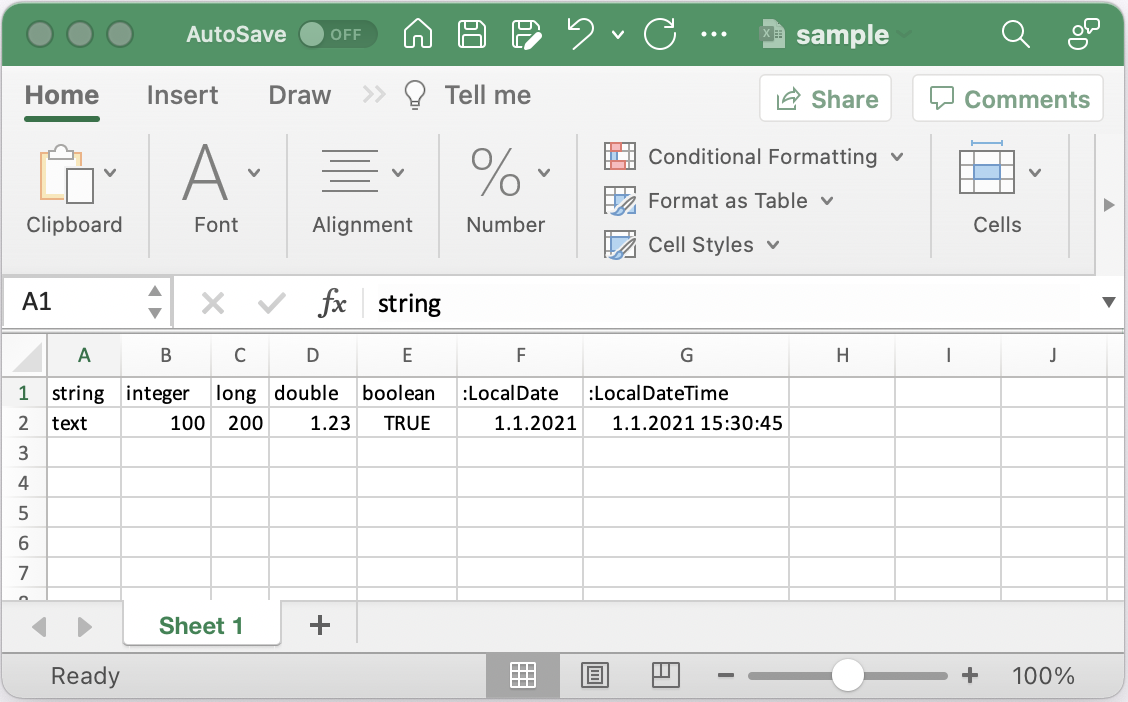
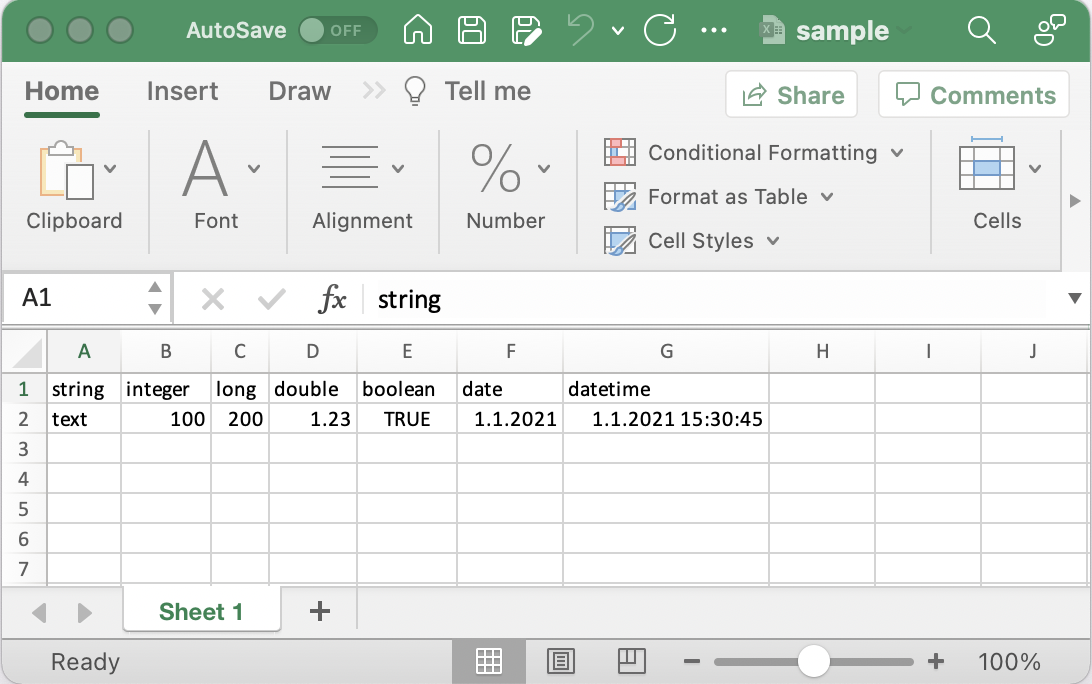
improved excel doc

diff --git a/doc/readme/excel.md b/doc/readme/excel.md
@@ -218,8 +218,8 @@ The Excel writer supports the Venice data types:
  - long
  - double
  - boolean
- - :java.time.LocalDate
- - :java.time.LocalDateTime
+ - date (:java.time.LocalDate)
+ - datetime (:java.time.LocalDateTime)
  
 ```clojure
 (do
@@ -227,9 +227,13 @@ The Excel writer supports the Venice data types:
 
   (load-module :excel)
 
-  (let [data  [ {:t-str "text" :t-int 100I :t-long 200 :t-double 1.23  :t-bool true 
-                 :t-local-date (time/local-date 2021 1 1)
-                 :t-local-ts (time/local-date-time 2021 1 1 15 30 45) } ]
+  (let [data  [ {:t-str "text" 
+                 :t-int 100I 
+                 :t-long 200 
+                 :t-double 1.23  
+                 :t-bool true 
+                 :t-date (time/local-date 2021 1 1)
+                 :t-datetime (time/local-date-time 2021 1 1 15 30 45) } ]
         wbook (excel/writer :xlsx)
         sheet (excel/add-sheet wbook "Sheet 1")]
     (excel/add-column sheet "string" { :field :t-str })
@@ -237,8 +241,8 @@ The Excel writer supports the Venice data types:
     (excel/add-column sheet "long" { :field :t-long })
     (excel/add-column sheet "double" { :field :t-double })
     (excel/add-column sheet "boolean" { :field :t-bool })
-    (excel/add-column sheet ":LocalDate" { :field :t-local-date })
-    (excel/add-column sheet ":LocalDateTime" { :field :t-local-ts })
+    (excel/add-column sheet "date" { :field :t-date })
+    (excel/add-column sheet "datetime" { :field :t-datetime })
     (excel/write-items sheet data)
     (excel/auto-size-columns sheet)
     (excel/write->file wbook "sample.xlsx")))
@@ -452,7 +456,9 @@ Set the height of individual rows:
     (excel/add-column sheet "Last Name" { :field :last })
     (excel/add-column sheet "Age" { :field :age })
     (excel/write-items sheet data)
-    (excel/row-height sheet 2 50)
+    
+    (excel/row-height sheet 2 50) ;; set the height of row 2 to 50
+    
     (excel/auto-size-columns sheet)
     (excel/write->file wbook "sample.xlsx")))
 ```
@@ -482,9 +488,12 @@ Set the width of individual columns:
     (excel/add-column sheet "Last Name" { :field :last })
     (excel/add-column sheet "Age" { :field :age })
     (excel/write-items sheet data)
+    
+    ;; column width
     (excel/col-width sheet 1 80)
     (excel/col-width sheet 2 80)
     (excel/col-width sheet 3 60)
+    
     (excel/write->file wbook "sample.xlsx")))
 ```
 
@@ -534,8 +543,7 @@ Define a named font with optional attributes on the workbook.
     (excel/add-style wbook :header { :font :header-font })
 
     (let [sheet (excel/add-sheet wbook "Sheet 1"
-                                 { :no-header-row false
-                                   :default-header-style :header })]
+                                 { :default-header-style :header })]
       (excel/add-column sheet "First Name" { :field :first })
       (excel/add-column sheet "Last Name" { :field :last })
       (excel/add-column sheet "Age" { :field :age })
@@ -623,8 +631,7 @@ Available border styles:
                                      :h-align :right })
 
     (let [sheet (excel/add-sheet wbook "Sheet 1"
-                                 { :no-header-row false
-                                   :default-header-style :header })]
+                                 { :default-header-style :header })]
       (excel/add-column sheet "First Name" { :field :first })
       (excel/add-column sheet "Last Name" { :field :last })
       (excel/add-column sheet "Weight" { :field :weight
@@ -668,6 +675,7 @@ Available border styles:
     (excel/column-width sheet 3 70)
     (excel/add-merge-region sheet 2 2 2 3)
     
+    ;; write values to cell with associated cell style
     (excel/write-value sheet 2 2 "Country Population" :title)
     (excel/write-value sheet 3 2 "" :country)
     (excel/write-value sheet 3 3 "" :population)
@@ -697,12 +705,12 @@ Available border styles:
   (let [wbook (excel/writer :xlsx)
         sheet (excel/add-sheet wbook "Data")]
 
-    ;; single cell
+    ;; single cells
     (excel/bg-color sheet 1 1 "#27ae60")
     (excel/bg-color sheet 1 2 "#52be80")
     (excel/bg-color sheet 1 3 "#7dcea0")
 
-    ;; range of cells in row
+    ;; range of cells in row 1
     (excel/bg-color sheet 1 4 6 "#3498db")
 
     ;; area of cells
@@ -734,8 +742,10 @@ Available border styles:
                              [400 401 402 nil 403 404 405]
                              [500 501 502 nil 503 504 505]
                              [600 601 602 nil 603 604 605]])
-    (excel/bg-color sheet 1 6 1 3 "#a9cafc" "#d9e7fc")  ;; left
-    (excel/bg-color sheet 1 6 5 7 "#fcaedc" "#fce3f2")  ;; right 
+                             
+    (excel/bg-color sheet 1 6 1 3 "#a9cafc" "#d9e7fc")  ;; left box
+    (excel/bg-color sheet 1 6 5 7 "#fcaedc" "#fce3f2")  ;; right box
+    
     (excel/write->file wbook "sample.xlsx")))
 ```
 
@@ -753,7 +763,7 @@ Available border styles:
   (load-module :excel)
   
   (let [wbook (excel/writer :xlsx)
-        sheet (excel/add-sheet wbook "Sheet 1" { :no-header-row false })]
+        sheet (excel/add-sheet wbook "Sheet 1")]
     (excel/add-font wbook :bold { :bold true
                                   :color "#54039c" })
     (excel/add-style wbook :style-1 { :font :bold
@@ -769,10 +779,12 @@ Available border styles:
     (excel/add-style wbook :style-3 { :h-align :right
                                       :format "#,##0.00" })
 
+    ;; write cell values
     (excel/write-value sheet 2 1 100)
     (excel/write-value sheet 2 2 200)
     (excel/write-value sheet 2 3 300)
 
+    ;; sytle the cells
     (excel/cell-style sheet 2 1 :style-1)
     (excel/cell-style sheet 2 2 :style-2)
     (excel/cell-style sheet 2 3 :style-3)
@@ -795,11 +807,12 @@ Available border styles:
   (load-module :excel)
           
   (let [wbook (excel/writer :xlsx)
-        sheet (excel/add-sheet wbook "Sheet 1" { :no-header-row false })]
+        sheet (excel/add-sheet wbook "Sheet 1")]
     (excel/add-style wbook :style { :bg-color "#cae1fa"
                                     :h-align :center
                                     :format "#,##0.00" })
 
+    ;; write cell values
     (excel/write-value sheet 2 2 100)
     (excel/write-value sheet 2 3 200)
     (excel/write-value sheet 2 4 300)
@@ -807,6 +820,7 @@ Available border styles:
     (excel/write-value sheet 3 3 201)
     (excel/write-value sheet 3 4 301)
 
+    ;; set the style for a cell region
     (excel/cell-style sheet 2 3 2 4 :style)
 
     (excel/write->file wbook "sample.xlsx")))
@@ -829,10 +843,12 @@ Freeze the top row:
   (load-module :excel)
   
   (let [wbook (excel/writer :xlsx)
-        sheet (excel/add-sheet wbook "Sheet 1" { :no-header-row false })]
+        sheet (excel/add-sheet wbook "Sheet 1")]
       (excel/write-data sheet [(map #(str "Col " %) (range 1 11))])
       (excel/write-data sheet (partition 10 (range 100 500)) 2 1)
-      (excel/freeze-pane sheet 1 0)
+      
+      (excel/freeze-pane sheet 1 0) ;; freeze the first row
+      
       (excel/auto-size-columns sheet)
       (excel/write->file wbook "sample.xlsx")))
 ```
